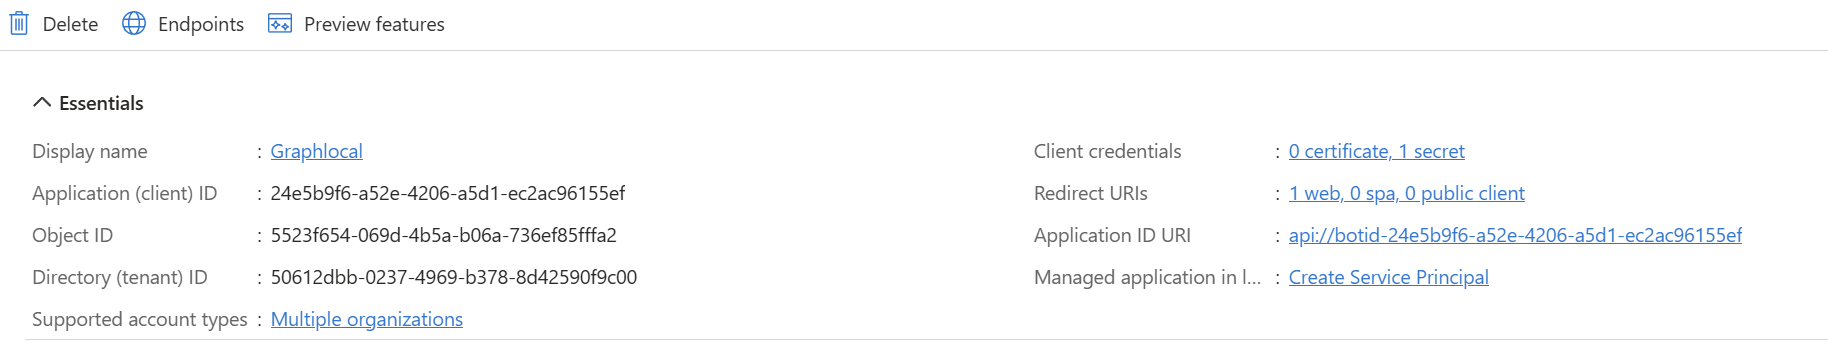
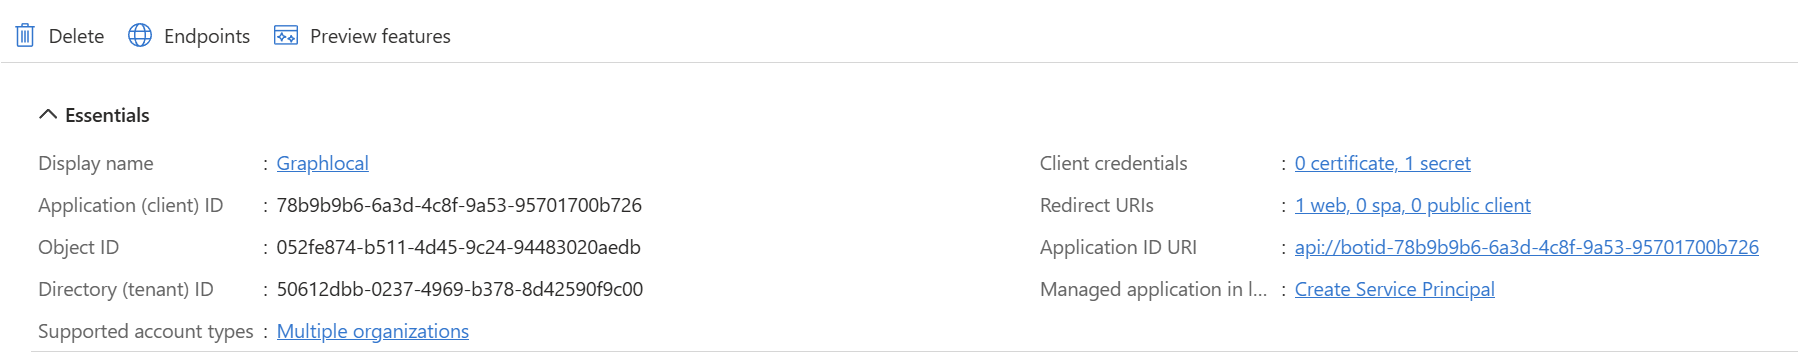
make lan specific changes

diff --git a/teams.md/docs/csharp/getting-started/running-in-teams/deployment-guide.md b/teams.md/docs/csharp/getting-started/running-in-teams/deployment-guide.md
@@ -10,49 +10,62 @@ We cover the most common setup and deployment steps for testing in teams, includ
 
 ### User Assigned Managed Identity
 
-This section demonstrates how to configure authentication in your application using a **User Assigned Managed Identity** in Azure. If you are using `msaAppType: 'UserAssignedMSI'` for the Azure Bot Service, for example the C# atk.basic configuration while deploying in Azure.
+This section demonstrates how to configure authentication in your application using a **User Assigned Managed Identity** in Azure. If you are using `msaAppType: 'UserAssignedMSI'` for the Azure Bot Service (required in dev env generally).
 
-Replace
-```typescript
-const app = new App({
-  plugins: [new DevtoolsPlugin()],
-});
+In your `Program.cs`, replace the initialization:
+```csharp
+var builder = WebApplication.CreateBuilder(args);
+builder.AddTeams();
 ```
-with in your index.ts .
+with the following code to enable User Assigned Managed Identity authentication: 
+```csharp
+var builder = WebApplication.CreateBuilder(args);
 
-```typescript
-// Create token factory function for Azure Identity
-const createTokenFactory = () => {
-  return async (scope: string | string[], tenantId?: string): Promise<string> => {
-    const managedIdentityCredential = new ManagedIdentityCredential({
-        clientId: process.env.CLIENT_ID
-      });
-    const scopes = Array.isArray(scope) ? scope : [scope];
-    const tokenResponse = await managedIdentityCredential.getToken(scopes, {
-      tenantId: tenantId
-    });
-   
-    return tokenResponse.token;
-  };
+Func<string[], string?, Task<ITokenResponse>> createTokenFactory = async (string[] scopes, string? tenantId) =>
+{
+    var clientId = Environment.GetEnvironmentVariable("CLIENT_ID");
+    var managedIdentityCredential = new ManagedIdentityCredential(clientId);
+    var tokenRequestContext = new TokenRequestContext(scopes, tenantId: tenantId);
+    var accessToken = await managedIdentityCredential.GetTokenAsync(tokenRequestContext);
+
+    return new TokenResponse
+    {
+        TokenType = "Bearer",
+        AccessToken = accessToken.Token,
+    };
 };
 
-// Configure authentication using TokenCredentials
-const tokenCredentials: TokenCredentials = {
-  clientId: process.env.CLIENT_ID || '',
-  token: createTokenFactory()
-};
+var appBuilder = App.Builder()
+    .AddCredentials(new TokenCredentials(
+        Environment.GetEnvironmentVariable("CLIENT_ID") ?? string.Empty,
+        async (tenantId, scopes) =>
+        {
+            return await createTokenFactory(scopes, tenantId);
+        }
+    ));
 
-const app = new App({
-  ...tokenCredentials,
-  plugins: [new DevtoolsPlugin()],
-});
+builder.AddTeams(appBuilder);
 ```
+The `createTokenFactory` function provides a method to retrieve access tokens from Azure on demand, and `token_credentials` passes this method to the app. 
 
 ### Missing Service Principal in the Tenant
 
-This error occurs when the application has a single-tenant Azure Bot Service instance, but your app registration has not yet been linked to a Service Principal in the tenant.  
+This error occurs when the application has a single-tenant Azure Bot Service (`msaAppType: 'SingleTenant'`) instance, but your app registration has not yet been linked to a Service Principal in the tenant.  
 
-![Service Principal Error](/screenshots/service-principal-error.png)  
+```sh
+[ERROR] Echobot Failed to get bot token on app startup.
+[ERROR] Echobot {
+[ERROR] Echobot   "error": "invalid_client",
+[ERROR] Echobot   "error_description": "AADSTS7000229: The client application 78b9b9b6-6a3d-4c8f-9a53-95701700b726 is missing service principal in the tenant 50612dbb-0237-4969-b378-8d42590f9c00. See instructions here: https://go.microsoft.com/fwlink/?linkid=2225119 Trace ID: 2965b26b-acdd-4cd7-8943-728a92074900 Correlation ID: 5a27b7c5-4754-4f0d-ac66-0bf9eec02fd9 Timestamp: 2025-09-18 02:26:20Z",
+[ERROR] Echobot   "error_codes": [
+[ERROR] Echobot     7000229
+[ERROR] Echobot   ],
+[ERROR] Echobot   "timestamp": "2025-09-18 02:26:20Z",
+[ERROR] Echobot   "trace_id": "2965b26b-acdd-4cd7-8943-728a92074900",
+[ERROR] Echobot   "correlation_id": "5a27b7c5-4754-4f0d-ac66-0bf9eec02fd9",
+[ERROR] Echobot   "error_uri": "https://login.microsoftonline.com/error?code=7000229"
+[ERROR] Echobot }
+```
 
 1. **Sign in to Azure Portal**  
    Go to [https://portal.azure.com](https://portal.azure.com) and log in with your Azure account.
@@ -66,7 +79,7 @@ This error occurs when the application has a single-tenant Azure Bot Service ins
    Open the app registration and verify if a Service Principal is created. If it exists already, you should see an entry for a **Managed Application in your local directory** if it exists.
     ![Existing Service Principal](/screenshots/existing-service-principal.png)
 5. **Create a Service Principal if missing**  
-   If it doesn’t exist, click **Create Service Principal** . Wait for the page to load.
+   If it doesn’t exist, click **Create Service Principal** . Wait for the page to finish loading.
    ![Create Service Principal](/screenshots/create-service-principal.png)
 6. **Restart your app**  
    Once the Service Principal is created, restart your application.

diff --git a/teams.md/docs/python/getting-started/running-in-teams/deployment-guide.md b/teams.md/docs/python/getting-started/running-in-teams/deployment-guide.md
@@ -10,49 +10,42 @@ We cover the most common setup and deployment steps for testing in teams, includ
 
 ### User Assigned Managed Identity
 
-This section demonstrates how to configure authentication in your application using a **User Assigned Managed Identity** in Azure. If you are using `msaAppType: 'UserAssignedMSI'` for the Azure Bot Service, for example the C# atk.basic configuration while deploying in Azure.
+This section demonstrates how to configure authentication in your application using a **User Assigned Managed Identity** in Azure. You will require this setup if you have `msaAppType: 'UserAssignedMSI'` for the Azure Bot Service (required in dev env generally).
 
-Replace
-```typescript
-const app = new App({
-  plugins: [new DevtoolsPlugin()],
-});
+In your `main.py`, replace the initialization:
+```python
+app = App(plugins=[DevToolsPlugin()])
 ```
-with in your index.ts .
+with the following code to enable User Assigned Managed Identity authentication: 
+```python
+# Create token factory function for Azure Identity
+def create_token_factory():
+    def get_token(scopes, tenant_id=None):
+        credential = ManagedIdentityCredential(client_id=os.environ.get("CLIENT_ID"))
+        if isinstance(scopes, str):
+            scopes_list = [scopes]
+        else:
+            scopes_list = scopes
+        token = credential.get_token(*scopes_list)
+        return token.token
+    return get_token
 
-```typescript
-// Create token factory function for Azure Identity
-const createTokenFactory = () => {
-  return async (scope: string | string[], tenantId?: string): Promise<string> => {
-    const managedIdentityCredential = new ManagedIdentityCredential({
-        clientId: process.env.CLIENT_ID
-      });
-    const scopes = Array.isArray(scope) ? scope : [scope];
-    const tokenResponse = await managedIdentityCredential.getToken(scopes, {
-      tenantId: tenantId
-    });
-   
-    return tokenResponse.token;
-  };
-};
-
-// Configure authentication using TokenCredentials
-const tokenCredentials: TokenCredentials = {
-  clientId: process.env.CLIENT_ID || '',
-  token: createTokenFactory()
-};
-
-const app = new App({
-  ...tokenCredentials,
-  plugins: [new DevtoolsPlugin()],
-});
+app = App(
+    token=create_token_factory(),
+    plugins=[DevtoolsPlugin()]
+)
 ```
+The `create_token_factory` function provides a method to retrieve access tokens from Azure on demand, and `token_credentials` passes this method to the app.  
 
 ### Missing Service Principal in the Tenant
 
-This error occurs when the application has a single-tenant Azure Bot Service instance, but your app registration has not yet been linked to a Service Principal in the tenant.  
+This error occurs when the application has a single-tenant Azure Bot Service (`msaAppType: 'SingleTenant'`) instance, but your app registration has not yet been linked to a Service Principal in the tenant.  
 
-![Service Principal Error](/screenshots/service-principal-error.png)  
+```sh
+```
+[ERROR] @teams/app Failed to refresh bot token: Client error '401 Unauthorized' for url 'https://login.microsoftonline.com/50612dbb-0237-4969-b378-8d42590f9c00/oauth2/v2.0/token'
+[ERROR] @teams/app For more information check: https://developer.mozilla.org/en-US/docs/Web/HTTP/Status/401
+```
 
 1. **Sign in to Azure Portal**  
    Go to [https://portal.azure.com](https://portal.azure.com) and log in with your Azure account.
@@ -66,7 +59,7 @@ This error occurs when the application has a single-tenant Azure Bot Service ins
    Open the app registration and verify if a Service Principal is created. If it exists already, you should see an entry for a **Managed Application in your local directory** if it exists.
     ![Existing Service Principal](/screenshots/existing-service-principal.png)
 5. **Create a Service Principal if missing**  
-   If it doesn’t exist, click **Create Service Principal** . Wait for the page to load.
+   If it doesn’t exist, click **Create Service Principal** . Wait for the page to finish loading.
    ![Create Service Principal](/screenshots/create-service-principal.png)
 6. **Restart your app**  
    Once the Service Principal is created, restart your application.

diff --git a/teams.md/docs/typescript/getting-started/running-in-teams/deployment-guide.md b/teams.md/docs/typescript/getting-started/running-in-teams/deployment-guide.md
@@ -10,16 +10,15 @@ We cover the most common setup and deployment steps for testing in teams, includ
 
 ### User Assigned Managed Identity
 
-This section demonstrates how to configure authentication in your application using a **User Assigned Managed Identity** in Azure. If you are using `msaAppType: 'UserAssignedMSI'` for the Azure Bot Service, for example the C# atk.basic configuration while deploying in Azure.
+This section demonstrates how to configure authentication in your application using a **User Assigned Managed Identity** in Azure. You will require this setup if you have `msaAppType: 'UserAssignedMSI'` for the Azure Bot Service (required in dev env generally).
 
-Replace
+In your `index.ts`, replace the initialization:
 ```typescript
 const app = new App({
-  plugins: [new DevtoolsPlugin()],
+  plugins: [new DevtoolsPlugin()]
 });
 ```
-with in your index.ts .
-
+with the following code to enable User Assigned Managed Identity authentication: 
 ```typescript
 // Create token factory function for Azure Identity
 const createTokenFactory = () => {
@@ -47,12 +46,27 @@ const app = new App({
   plugins: [new DevtoolsPlugin()],
 });
 ```
+The `createTokenFactory` function provides a method to retrieve access tokens from Azure on demand, and `TokenCredentials` passes this method to the app.  
 
 ### Missing Service Principal in the Tenant
 
-This error occurs when the application has a single-tenant Azure Bot Service instance, but your app registration has not yet been linked to a Service Principal in the tenant.  
+This error occurs when the application has a single-tenant Azure Bot Service (`msaAppType: 'SingleTenant'`) instance, but your app registration has not yet been linked to a Service Principal in the tenant.    
 
-![Service Principal Error](/screenshots/service-principal-error.png)  
+```sh
+[ERROR] @teams/app Request failed with status code 401
+[ERROR] @teams/app /50612dbb-0237-4969-b378-8d42590f9c00/oauth2/v2.0/token
+[ERROR] @teams/app {
+[ERROR] @teams/app   "error": "invalid_client",
+[ERROR] @teams/app   "error_description": "AADSTS7000229: The client application 78b9b9b6-6a3d-4c8f-9a53-95701700b726 is missing service principal in the tenant 50612dbb-0237-4969-b378-8d42590f9c00. See instructions here: https://go.microsoft.com/fwlink/?linkid=2225119 Trace ID: d4eaaf65-a747-4650-97e9-75dfd8965000 Correlation ID: 3a6a7f72-a358-4034-8ee1-639c13a6b321 Timestamp: 2025-09-18 01:17:37Z",
+[ERROR] @teams/app   "error_codes": [
+[ERROR] @teams/app     7000229
+[ERROR] @teams/app   ],
+[ERROR] @teams/app   "timestamp": "2025-09-18 01:17:37Z",
+[ERROR] @teams/app   "trace_id": "d4eaaf65-a747-4650-97e9-75dfd8965000",
+[ERROR] @teams/app   "correlation_id": "3a6a7f72-a358-4034-8ee1-639c13a6b321",
+[ERROR] @teams/app   "error_uri": "https://login.microsoftonline.com/error?code=7000229"
+[ERROR] @teams/app }
+```
 
 1. **Sign in to Azure Portal**  
    Go to [https://portal.azure.com](https://portal.azure.com) and log in with your Azure account.
@@ -64,9 +78,9 @@ This error occurs when the application has a single-tenant Azure Bot Service ins
    - Azure deployment → `env/.env.dev`
 4. **Check if a Service Principal exists**  
    Open the app registration and verify if a Service Principal is created. If it exists already, you should see an entry for a **Managed Application in your local directory** if it exists.
-    ![Existing Service Principal](/screenshots/existing-service-principal.png)
+  ![Existing Service Principal](/screenshots/existing-service-principal.png)
 5. **Create a Service Principal if missing**  
-   If it doesn’t exist, click **Create Service Principal** . Wait for the page to load.
+   If it doesn’t exist, click **Create Service Principal** . Wait for the page to finish loading.
    ![Create Service Principal](/screenshots/create-service-principal.png)
 6. **Restart your app**  
    Once the Service Principal is created, restart your application.

diff --git a/teams.md/docs/csharp/getting-started/running-in-teams/running-in-teams.md b/teams.md/docs/csharp/getting-started/running-in-teams/running-in-teams.md
@@ -101,7 +101,9 @@ If you want to monitor the activities and events in your app, you can still use 
 
 ## Troubleshooting
 
-For deployment and resource management we recommend the Microsoft 365 Agents Toolkit. If you prefer to set everything up by hand, follow the standard [Teams app documentation](https://learn.microsoft.com/en-us/microsoftteams/platform/concepts/deploy-and-publish/apps-publish-overview). The Teams AI library itself doesn't handle deployment or Azure resources, so you'll need to rely on the general [Microsoft Teams deployment documentation](https://learn.microsoft.com/en-us/microsoftteams/deploy-overview).
+For deployment and resource management we recommend the Microsoft 365 Agents Toolkit. Refer to our [Deployment guide](./deployment-guide.md) for common scenarios and potential issues. 
+
+If you prefer to set everything up by hand, follow the standard [Teams app documentation](https://learn.microsoft.com/en-us/microsoftteams/platform/concepts/deploy-and-publish/apps-publish-overview). The Teams AI library itself doesn't handle deployment or Azure resources, so you'll need to rely on the general [Microsoft Teams deployment documentation](https://learn.microsoft.com/en-us/microsoftteams/deploy-overview) for in-depth help.
 
 ## Next steps
 

diff --git a/teams.md/docs/python/getting-started/running-in-teams/running-in-teams.md b/teams.md/docs/python/getting-started/running-in-teams/running-in-teams.md
@@ -104,7 +104,8 @@ If you want to monitor the activities and events in your app, you can still use 
 
 ## Troubleshooting
 
-For deployment and resource management we recommend the Microsoft 365 Agents Toolkit. If you prefer to set everything up by hand, follow the standard [Teams app documentation](https://learn.microsoft.com/en-us/microsoftteams/platform/concepts/deploy-and-publish/apps-publish-overview). The Teams AI library itself doesn't handle deployment or Azure resources, so you'll need to rely on the general [Microsoft Teams deployment documentation](https://learn.microsoft.com/en-us/microsoftteams/deploy-overview).
+For deployment and resource management we recommend the Microsoft 365 Agents Toolkit. Refer to our [Deployment guide](./deployment-guide.md) for common scenarios and potential issues. 
+If you prefer to set everything up by hand, follow the standard [Teams app documentation](https://learn.microsoft.com/en-us/microsoftteams/platform/concepts/deploy-and-publish/apps-publish-overview). The Teams AI library itself doesn't handle deployment or Azure resources, so you'll need to rely on the general [Microsoft Teams deployment documentation](https://learn.microsoft.com/en-us/microsoftteams/deploy-overview) for in-depth help.
 
 ## Next steps
 
